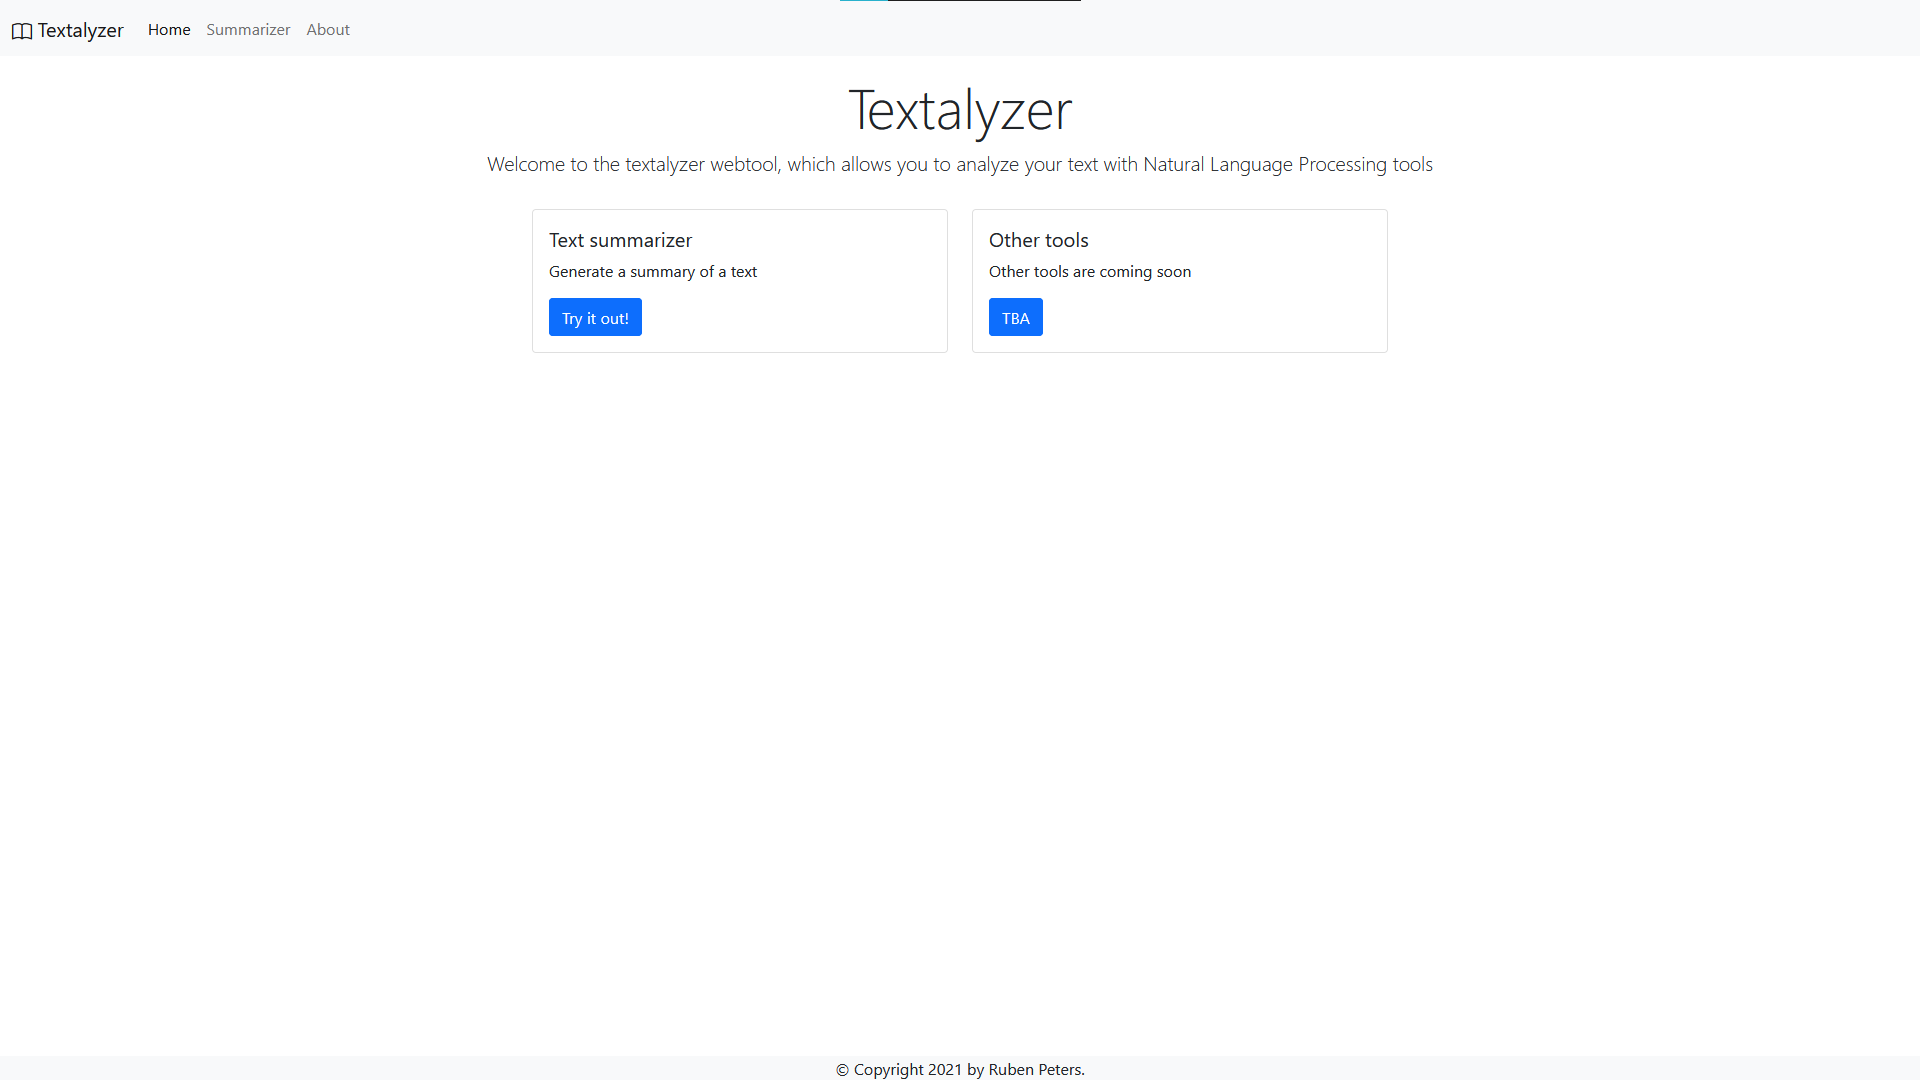
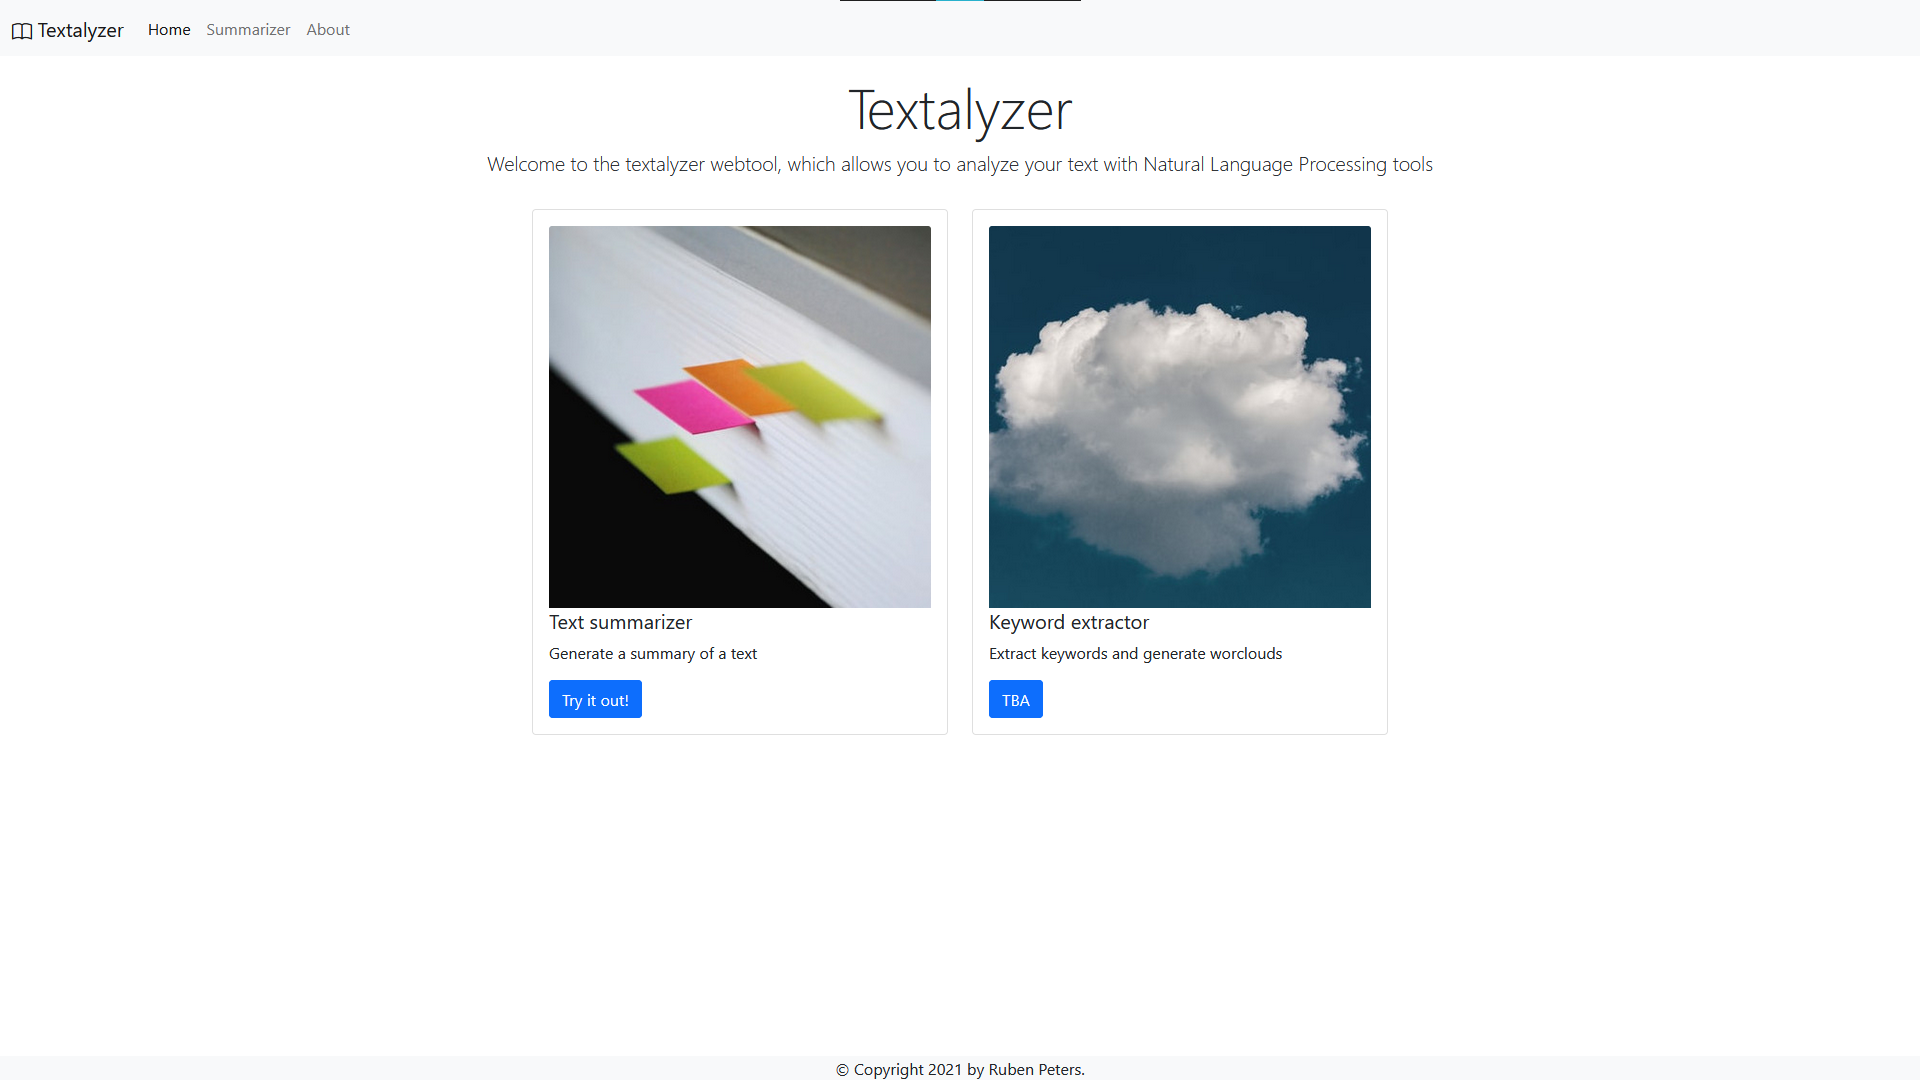
changed folder structure and added images

Changed region(s): [[0.2812, 0.1833, 0.7188, 0.6722]]

diff --git a/textalyzer/templates/home.html b/textalyzer/templates/home.html
@@ -11,6 +11,7 @@
     <div class="col-sm-4">
         <div class="card">
             <div class="card-body">
+                <img src="{{ url_for('static', filename='img/bookmark.jpg') }}" class="card-img-top" alt="bookmark">
                 <h5 class="card-title">Text summarizer</h5>
                 <p class="card-text">Generate a summary of a text</p>
                 <a href="/summarizer" class="btn btn-primary">Try it out!</a>
@@ -20,8 +21,9 @@
     <div class="col-sm-4">
         <div class="card">
             <div class="card-body">
-                <h5 class="card-title">Other tools</h5>
-                <p class="card-text">Other tools are coming soon</p>
+                <img src="{{ url_for('static', filename='img/cloud.jpg') }}" class="card-img-top" alt="bookmark">
+                <h5 class="card-title">Keyword extractor</h5>
+                <p class="card-text">Extract keywords and generate worclouds</p>
                 <a href="#" class="btn btn-primary">TBA</a>
             </div>
         </div>

diff --git a/textalyzer/templates/layout.html b/textalyzer/templates/layout.html
@@ -13,7 +13,7 @@
     <link rel="stylesheet" href="https://cdn.jsdelivr.net/npm/bootstrap-icons@1.3.0/font/bootstrap-icons.css">
 
     <!-- Others -->
-    <link rel="stylesheet" href="{{ url_for('static', filename='style.css') }}">
+    <link rel="stylesheet" href="{{ url_for('static', filename='css/style.css') }}">
     <link rel="shortcut icon" href="{{ url_for('static', filename='favicon.ico') }}">
     <title>Textalyzer</title>
     {% endblock %}

diff --git a/textalyzer/templates/summarizer.html b/textalyzer/templates/summarizer.html
@@ -1,6 +1,6 @@
 {% extends "layout.html" %}
 {% block head %}
-<script src="{{ url_for('static', filename='summarise.js') }}"></script>
+<script src="{{ url_for('static', filename='js/summarise.js') }}"></script>
 {{ super() }}
 {% endblock%}
 {% block nav_summ %}active{% endblock %}
